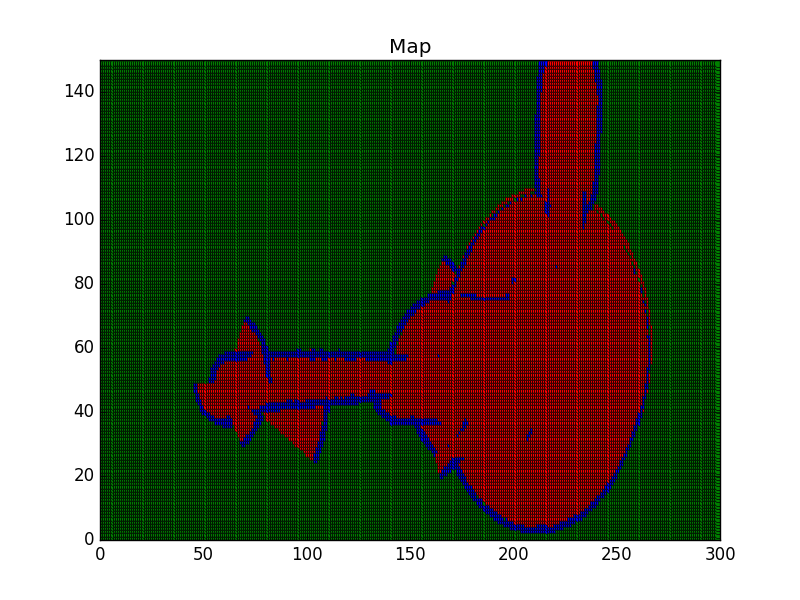
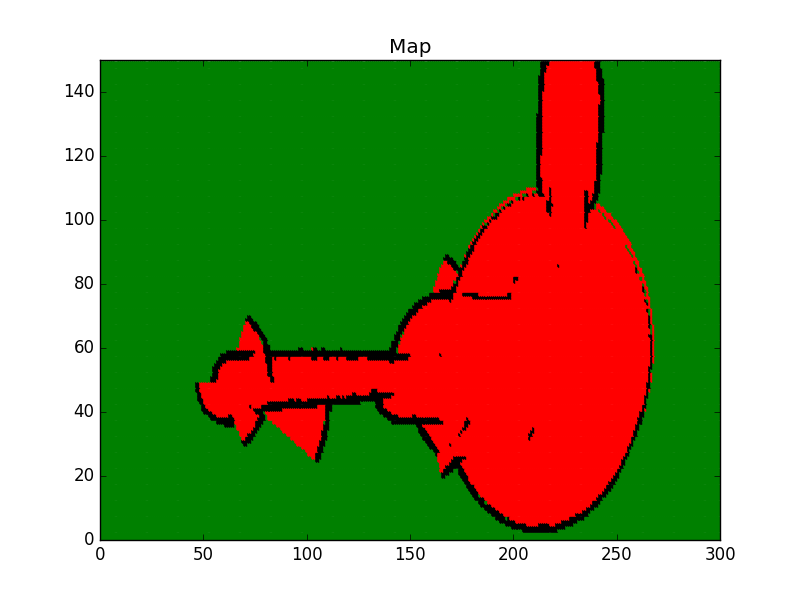
Changed circles to points

diff --git a/main.cpp b/main.cpp
@@ -88,13 +88,13 @@ void visualization()
     for (double x = 0; x < mapWidth / gridWidth; x++) {
         for (double y = 0; y < mapHeight / gridHeight; y++) {
             if (l[x][y] == 0) { //Green unkown state
-                plt::plot({ x }, { y }, "go");
+                plt::plot({ x }, { y }, "g.");
             }
-            else if (l[x][y] > 0) { //Blue occupied
-                plt::plot({ x }, { y }, "bo");
+            else if (l[x][y] > 0) { //Black occupied state
+                plt::plot({ x }, { y }, "k.");
             }
-            else { //Red free
-                plt::plot({ x }, { y }, "ro");
+            else { //zred free state
+                plt::plot({ x }, { y },"r.");
             }
         }
     }
